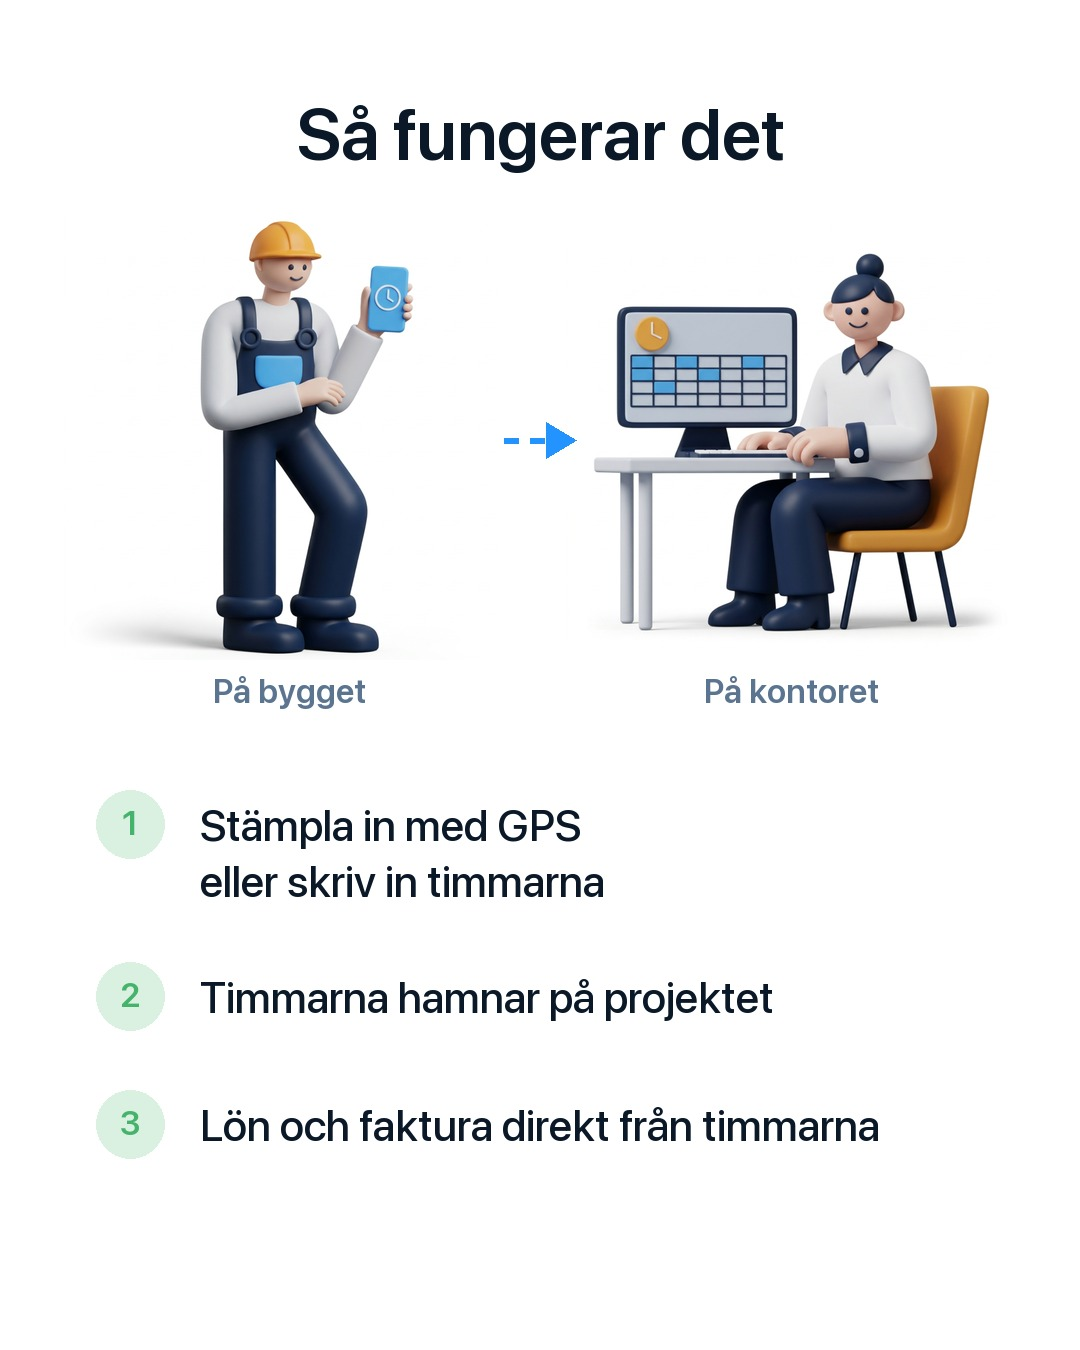
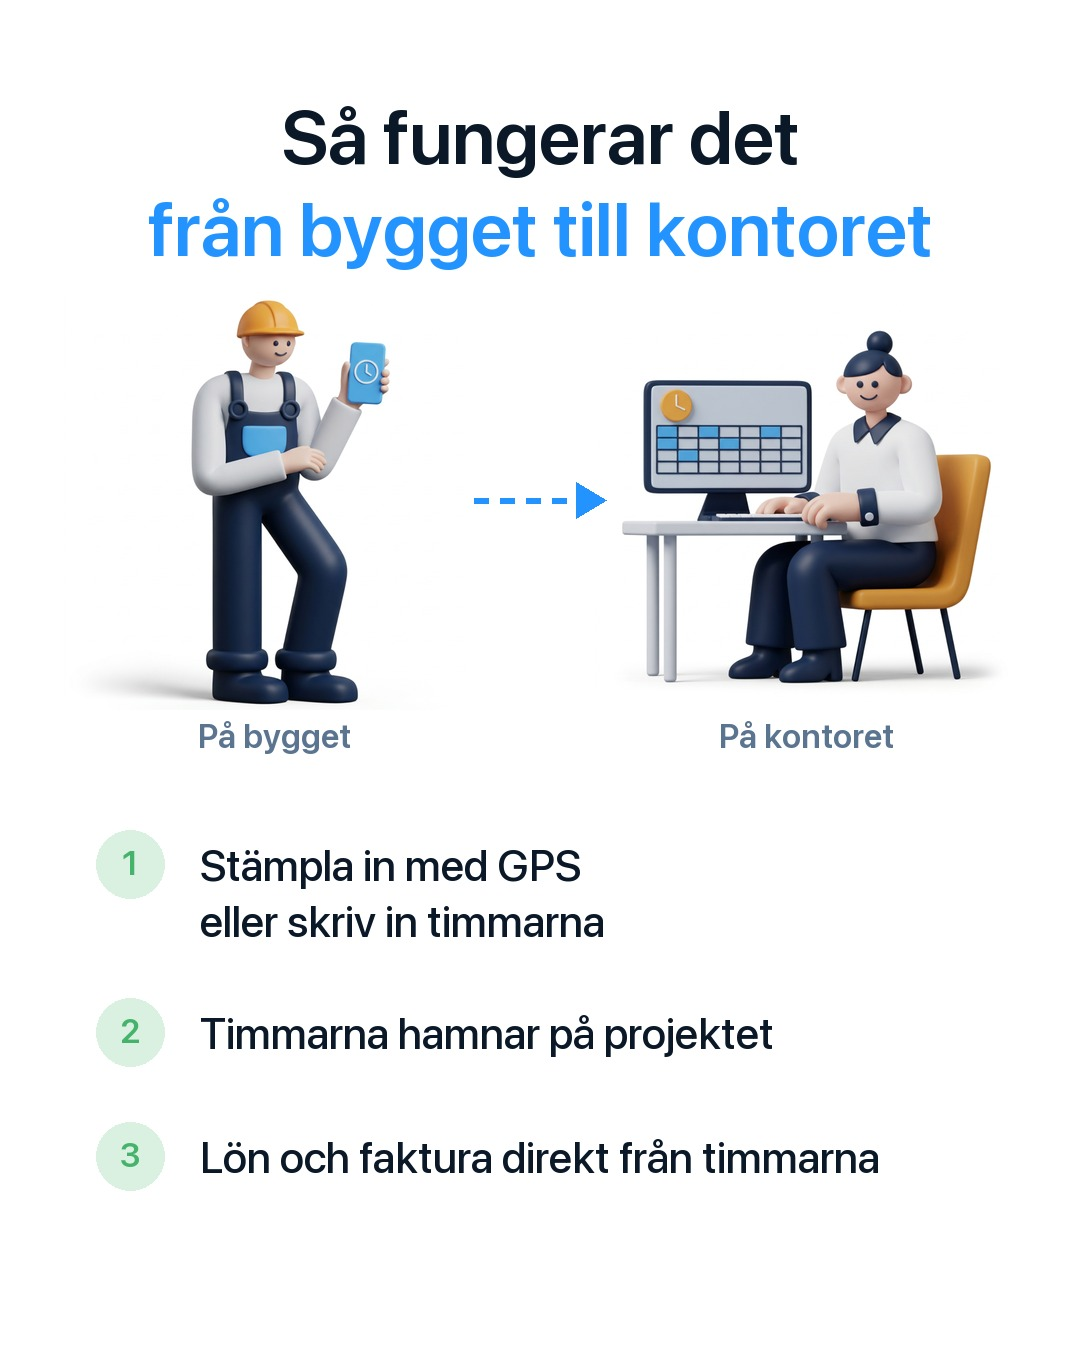
feat(smm): same two-line navy/blue headline on every slide
Claude-Session: https://claude.ai/code/session_015ffAXEftTHPL4eNP1AivUn

diff --git a/design-assets/social/posts/make_3d.py b/design-assets/social/posts/make_3d.py
@@ -140,12 +140,23 @@ SHOTS = {  # one or two phones; label under each when two
 
 TOP = 90  # carousel: headline higher (owner 2026-10-31)
 
+# Slides 2 and 3: two-line headlines like the cover (navy + blue), per post
+HEADS = {
+    "01-tid": (("Så fungerar det", "från bygget till kontoret"),
+               ("I mobilen och i datorn", "samma timmar överallt")),
+}
+
+
+def headline(d, lines, size):
+    # Every slide: line 1 navy, line 2 blue, same size and height (owner 2026-10-31)
+    for i, t in enumerate(lines):
+        d.text(((W - d.textlength(t, font=font(size))) / 2, TOP + i * 92), t, font=font(size), fill=NAVY if i == 0 else BLUE)
+
 
 def slide_cover(lines, art, size):
     f = Image.new("RGBA", (W, H), (255, 255, 255, 255))
     d = ImageDraw.Draw(f)
-    for i, t in enumerate(lines):
-        d.text(((W - d.textlength(t, font=font(size))) / 2, TOP + i * 92), t, font=font(size), fill=NAVY if i == 0 else BLUE)
+    headline(d, lines, size)
     im = Image.open(ART / art).convert("RGBA").resize((820, 820), Image.LANCZOS)
     f.alpha_composite(im, ((W - 820) // 2, 300))
     return f, d
@@ -163,30 +174,29 @@ def arrow(d, x0, x1, y):
     d.polygon([(x1, y), (x1 - 30, y - 18), (x1 - 30, y + 18)], fill=BLUE)
 
 
-def slide_steps(items, pid):
+def slide_steps(items, pid, lines, size):
     f = Image.new("RGBA", (W, H), (255, 255, 255, 255))
     d = ImageDraw.Draw(f)
-    t = "Så fungerar det"
-    d.text(((W - d.textlength(t, font=font(72))) / 2, TOP), t, font=font(72), fill=NAVY)
+    headline(d, lines, size)
     site, office = FLOW[pid]
-    side = 450
+    side = 420
     for art, x in ((site, 64), (office, W - 64 - side)):
         im = Image.open(ART / art).convert("RGBA").resize((side, side), Image.LANCZOS)
-        f.alpha_composite(im, (x, 210))
+        f.alpha_composite(im, (x, 290))
     fl = font(34, "Bold")
     for label, x in (("På bygget", 64), ("På kontoret", W - 64 - side)):
-        d.text((x + (side - d.textlength(label, font=fl)) / 2, 670), label, font=fl, fill=GREY)
-    arrow(d, 64 + side - 10, W - 64 - side + 10, 440)
+        d.text((x + (side - d.textlength(label, font=fl)) / 2, 715), label, font=fl, fill=GREY)
+    arrow(d, 64 + side - 10, W - 64 - side + 10, 500)
     ft, fn = font(44, "Medium"), font(34, "Bold")
-    y = 790
+    y = 830
     for i, text in enumerate(items):
         d.ellipse((96, y, 164, y + 68), fill=(218, 240, 225))
         n = str(i + 1)
         d.text((130 - d.textlength(n, font=fn) / 2, y + 12), n, font=fn, fill=(69, 179, 107))
-        lines = wrap(d, text, ft, W - 200 - 96)
-        for j, line in enumerate(lines):
+        rows = wrap(d, text, ft, W - 200 - 96)
+        for j, line in enumerate(rows):
             d.text((200, y + 8 + j * 56), line, font=ft, fill=NAVY)
-        y += max(68, 56 * len(lines)) + 60
+        y += max(68, 56 * len(rows)) + 56
     return f, d
 
 
@@ -242,7 +252,7 @@ FEATURE = {  # last slide: the site's laptop + phone picture; the old phone is c
 }
 
 
-def slide_feature(spec, caption):
+def slide_feature(spec, lines, size):
     # Laptop from the site + our real iPhone with the current week screen on top of the old phone.
     path, screen, (px, py, ph) = spec
     f = Image.new("RGBA", (W, H), (255, 255, 255, 255))
@@ -255,8 +265,8 @@ def slide_feature(spec, caption):
     w = W - 40
     im = im.resize((w, round(im.height * w / im.width)), Image.LANCZOS)
     # Headline at the same height as on the other slides; under the picture the site's hero promises.
-    d.text(((W - d.textlength(caption, font=font(72))) / 2, TOP), caption, font=font(72), fill=NAVY)
-    y = 250
+    headline(d, lines, size)
+    y = 300
     f.alpha_composite(im, (20, y))
     checks(d, y + im.height + 70)
     return f, d
@@ -283,8 +293,9 @@ def carousel(pid):
     size = headline_size()
     out = []
     # 3 pictures (owner 2026-10-31): the site's laptop + new phone replaces the separate phone slide
-    last = slide_feature(FEATURE[pid], "I mobilen och i datorn") if pid in FEATURE else slide_shot(SHOTS[pid], "Så ser det ut i appen")
-    slides = [slide_cover(lines, art, size), slide_steps(items, pid), last]
+    h2, h3 = HEADS[pid]
+    last = slide_feature(FEATURE[pid], h3, size) if pid in FEATURE else slide_shot(SHOTS[pid], "Så ser det ut i appen")
+    slides = [slide_cover(lines, art, size), slide_steps(items, pid, h2, size), last]
     for i, (f, d) in enumerate(slides):
         if i == 0:  # footer only on the first picture (owner 2026-10-31)
             footer(f, d, badges)

diff --git a/design-assets/social/DESIGN-SYSTEM-SMM.md b/design-assets/social/DESIGN-SYSTEM-SMM.md
@@ -76,7 +76,7 @@
 
 **S26 · 2026-10-31 · Посты о функциях: под 3D — «как это работает», без цены.** Под 3D-картинкой 3 коротких шага (зелёные шарики 1-2-3, как в презентациях функций): что делает человек → что делает система → что получаешь. Человек, который видит функцию впервые, понимает логику. Цены на картинке нет, в тексте поста тоже нет (только «14 dagar gratis, ingen bindningstid»). Шаг — 1–2 строки, перенос сбалансированный, без одиночного слова. Отменяет S17/S18 для постов о функциях; цена остаётся на обложках и закрепе. Код: `posts/make_3d.py` (`steps`, `wrap`). Почему: владелец: «не надо везде цены ставить, расскажи подробнее про функцию, какая логика».
 
-**S27 · 2026-10-31 · Пост о функции = карусель из 3 картинок.** 1) 3D + заголовок-выгода (подпись byggexp.se + значки сторов — только здесь); 2) «Så fungerar det» — сверху связь «På bygget → På kontoret»: 3D рабочего с телефоном, синяя пунктирная стрелка, 3D женщины за компьютером (видно: человек ввёл — в компьютере уже есть); ниже 3 шага, длинный шаг переносится, не вылезает за край (`FLOW` в make_3d.py); 3) «Så ser det ut i appen» — настоящий экран в настоящем iPhone из презентаций (`byggexp-admin/docs/presentations/design-system/assets/screens/foto-phone.png`, титановая рамка, кнопки, Dynamic Island), не нарисованная рамка. 3-я картинка (если у функции есть картинка на сайте) — «I mobilen och i datorn»: ноутбук с сайта (`public/landing/features/<n>.webp`), а старый телефон на ней закрыт нашим настоящим iPhone с текущим экраном (часы — неделя, вкладка Manuell); заголовок на той же высоте, что на всех слайдах (y 90, владелец: «заголовки не на ровных местах»), под картинкой — 3 зелёные галочки из шапки сайта: «14 dagar gratis · Ingen bindningstid · Gratis flytt av data». Отзывов нет — не выдумываем. Отдельный слайд с телефонами тогда не нужен (владелец: «либо третий, либо четвёртый»). Серия идёт по блоку «Så fungerar det» на главной (11 карточек, их названия и шаги); сначала утверждаем один пост, остальные — строго по нему. Заголовки на всех слайдах выше (y 90). Фон всех 3 картинок белый, без светло-голубого. Скриншот — свежий из симулятора, во весь экран, без пустого низа, и показывает все поля, которые человек заполняет (часы, övertid, OB, restid, bil, traktamente, фото, kvitton), а не обрезанный кусок. Экран всегда с верха: вкладки и неделя видны, низ может обрезаться (владелец: «пускай верхняя часть видна»). Если у функции два способа — оба: тидрапорт = «GPS eller manuellt» в заголовке и шагах, на 3-й картинке два телефона с подписями «GPS» / «Manuellt». Код: `posts/make_3d.py` (`carousel`, `SHOTS`, скрины в `~/Desktop/SMM/app-shots/`). Почему: владелец: «одним постом 2–3 картинки», «заголовок выше», «телефон реальный», «подпись только на 1-й», «у нас не только GPS — мануальный ввод обязательно», «больше полей, где человек часы вводит».
+**S27 · 2026-10-31 · Пост о функции = карусель из 3 картинок.** 1) 3D + заголовок-выгода (подпись byggexp.se + значки сторов — только здесь); 2) «Så fungerar det» — сверху связь «På bygget → På kontoret»: 3D рабочего с телефоном, синяя пунктирная стрелка, 3D женщины за компьютером (видно: человек ввёл — в компьютере уже есть); ниже 3 шага, длинный шаг переносится, не вылезает за край (`FLOW` в make_3d.py); 3) «Så ser det ut i appen» — настоящий экран в настоящем iPhone из презентаций (`byggexp-admin/docs/presentations/design-system/assets/screens/foto-phone.png`, титановая рамка, кнопки, Dynamic Island), не нарисованная рамка. 3-я картинка (если у функции есть картинка на сайте) — «I mobilen och i datorn»: ноутбук с сайта (`public/landing/features/<n>.webp`), а старый телефон на ней закрыт нашим настоящим iPhone с текущим экраном (часы — неделя, вкладка Manuell); заголовок на той же высоте, что на всех слайдах (y 90, владелец: «заголовки не на ровных местах»), под картинкой — 3 зелёные галочки из шапки сайта: «14 dagar gratis · Ingen bindningstid · Gratis flytt av data». Отзывов нет — не выдумываем. Отдельный слайд с телефонами тогда не нужен (владелец: «либо третий, либо четвёртый»). Серия идёт по блоку «Så fungerar det» на главной (11 карточек, их названия и шаги); сначала утверждаем один пост, остальные — строго по нему. Заголовки на всех слайдах выше (y 90) и одинаковые: 2 строки, 1-я тёмно-синяя #0A1828, 2-я голубая #2394FF, один размер на всю серию (`headline()`, тексты в `HEADS`). Фон всех 3 картинок белый, без светло-голубого. Скриншот — свежий из симулятора, во весь экран, без пустого низа, и показывает все поля, которые человек заполняет (часы, övertid, OB, restid, bil, traktamente, фото, kvitton), а не обрезанный кусок. Экран всегда с верха: вкладки и неделя видны, низ может обрезаться (владелец: «пускай верхняя часть видна»). Если у функции два способа — оба: тидрапорт = «GPS eller manuellt» в заголовке и шагах, на 3-й картинке два телефона с подписями «GPS» / «Manuellt». Код: `posts/make_3d.py` (`carousel`, `SHOTS`, скрины в `~/Desktop/SMM/app-shots/`). Почему: владелец: «одним постом 2–3 картинки», «заголовок выше», «телефон реальный», «подпись только на 1-й», «у нас не только GPS — мануальный ввод обязательно», «больше полей, где человек часы вводит».
 
 **S28 · 2026-10-31 · Шрифт картинок = то, что реально видно на сайте: SF Pro.** Сайт в CSS пишет `"DM Sans", -apple-system…`, но DM Sans нигде не подгружает (нет @font-face / Google Fonts), поэтому посетитель видит системный SF Pro. В картинках — `/System/Library/Fonts/SFNS.ttf` (вариативный): заголовки 600, шаги 500, текст 400; крупный текст — оптический размер Display. DM Sans в картинках не использовать. Сайт не трогаем (сделан по Figma, эталон): материалы подстраиваются под сайт, а не наоборот. Код: `font()` в `posts/make_3d.py`. Почему: владелец: «шрифты точно с сайта?» — были не с сайта.
 
